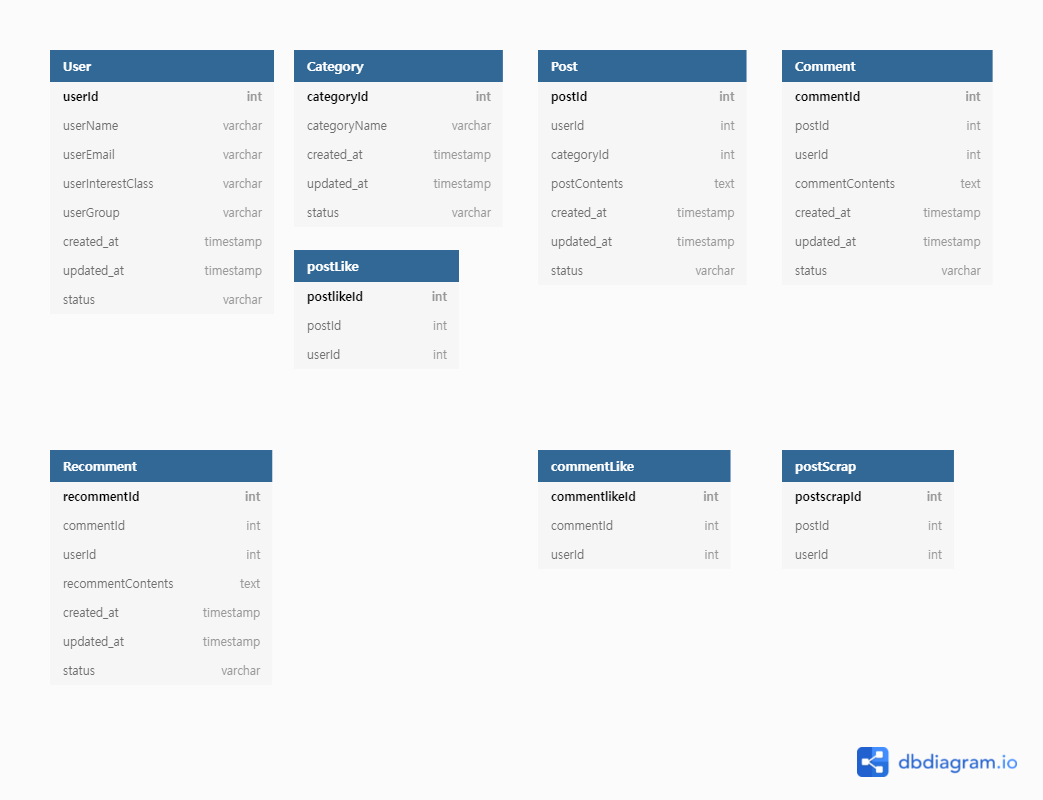
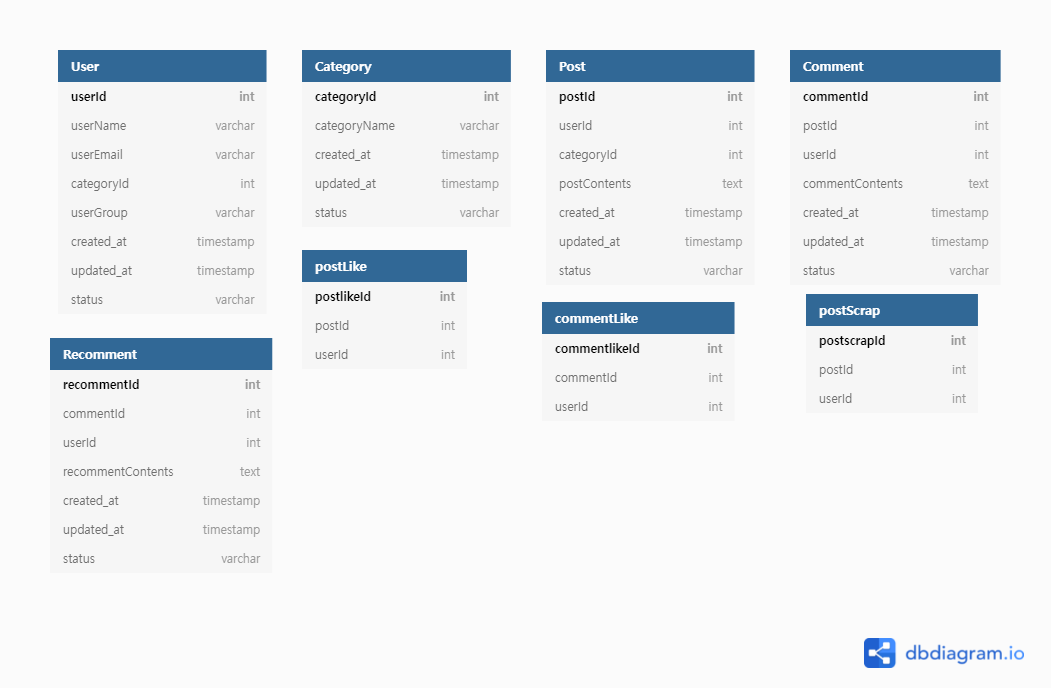
2022.02.04.md - API 명세서 추가 - DB 변경

diff --git a/Plan/Information.md b/Plan/Information.md
@@ -1,7 +1,16 @@
-###Language : Java ( 11.0.13 )
-###FrameWork : Spring Boot ( 2.6.3 )
-###Build : Gradle ( 7.3.3 )
-###Template Engine : Thymeleaf
-###ERD : dbdiagram
-###DB : RDS ( AWS ), MySQL, DataGrip
-###Server : EC2 ( AWS )
+### Language : Java ( 11.0.13 )
+
+### FrameWork : Spring Boot ( 2.6.3 )
+
+### Build : Gradle ( 7.3.3 )
+
+### Template Engine : Thymeleaf
+
+### ERD : dbdiagram
+
+### DB : RDS ( AWS ), MySQL, DataGrip
+
+### Server : EC2 ( AWS )
+
+### API 명세서 : https://docs.google.com/spreadsheets/d/1KdmW5qFSF8SO-kpooUVfiELX86TesKGq1q8NVdm-xT0/edit?usp=sharing
+

diff --git a/History/2022.02.04.md b/History/2022.02.04.md
@@ -1,0 +1,8 @@
+## 2022.02.04
+
+### 오늘 한 일
+- API 명세서 작성
+- DB 에서 User 테이블 속성 변경 ( userInterestClass 삭제 -> categoryId 생성 )
+
+### API 명세서 URL
+- https://docs.google.com/spreadsheets/d/1KdmW5qFSF8SO-kpooUVfiELX86TesKGq1q8NVdm-xT0/edit?usp=sharing
